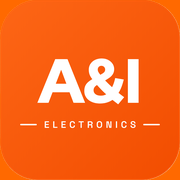
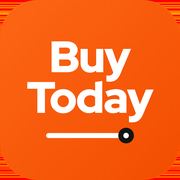
Put the Buy Today mark on every surface that carried the old one
The artwork arrived as an 1800px PNG on a white page with a drop shadow —
not as a tile. Dropped in as-is it would have been wrong everywhere it is
used: the header, footer and checkout all clip the mark with rounded-[22%],
so a white page background inside that clip renders as a white card, and
against the footer's navy it would have been a bright rectangle.

So the tile is cut out of it rather than the file being renamed. The orange
sits at 156px inset on all four sides, 1488x1488, with a 310px corner radius
— fitted to the artwork's own arc at six points rather than guessed, which
is what lets a generated mask land exactly on the drawn edge. The corners
become transparency, matching what the A&I file did.

One thing that is not obvious: the pixels the mask discards are repainted
with their row's own gradient colour before the alpha is applied. Left
white, that background averages into the rounded edge on every downscale
and each derived icon picks up a pale fringe. There is now no colour
boundary under the alpha for a resample to find.

Each size keeps the convention of the file it replaces. icon.png stays
transparent-cornered. apple-icon.png stays opaque and square, because iOS
masks the icon itself and hands a transparent corner back as black. The
Open Graph card keeps its navy, its 299x300 tile at y=110 and a 45px cap
height on the wordmark. Pelecard's logo stays a payment-page asset: its
stylesheet paints the mark in a 140x38 box with object-fit:contain, so a
[…]

diff --git a/src/app/globals.css b/src/app/globals.css
@@ -61,22 +61,26 @@
 
   /* Buy Today brand orange, sampled from the logo file itself
      (public/brand/logo.png) rather than eyeballed. The tile is a gradient
-     running #FC6414 -> #F35002; its core sits at #F7590B, which is this
-     value. The previous token was #FF6900 — 0.032 lighter and 4.4deg
+     running #F95C0D -> #F34F01; its core sits at #F55305, which is this
+     value. An earlier token was #FF6900 — 0.032 lighter and 4.4deg
      yellower, close enough to look intentional on its own and wrong the
-     moment the logo sits next to a CTA.
-
-     These numbers were sampled from the old A&I tile. The Buy Today mark is
-     the same family of orange, but the value has NOT been re-sampled against
-     it — do that when replacing the logo file, or the token drifts from the
-     mark it is supposed to match. --brand drives every CTA/link/
+     moment the logo sits next to a CTA. --brand drives every CTA/link/
      accent surface; --primary (below) carries the navy into the site's
      dark UI chrome (footer, default button/control states).
 
-     --brand-hover is the gradient's dark end, so hovering a button lands on
-     a colour the mark itself already contains. */
-  --brand: oklch(0.668 0.206 40);
-  --brand-hover: oklch(0.62 0.208 38.5);
+     Re-sampled when the mark changed from the A&I tile to Buy Today. The
+     shift was small — 0.010 darker, 0.9deg less yellow — but the point of
+     this token is that it is measured off the logo that ships and not off
+     one that has been replaced.
+
+     --brand-hover is built from the gradient's dark end rather than being
+     it. That end is oklch(0.650 0.211 38.3); the hover keeps its hue and
+     chroma and pulls lightness down a further 0.031. Taken straight, the
+     two would sit 0.008 apart, which on a button reads as no hover at all.
+     The previous pair carried the same 0.031 offset, so hovering still
+     lands on a colour the mark itself contains, only deeper. */
+  --brand: oklch(0.658 0.209 39.1);
+  --brand-hover: oklch(0.619 0.211 38.3);
   --brand-foreground: oklch(0.985 0 0);
   --price-highlight: oklch(0.96 0.15 105);
   --success: oklch(0.644 0.136 161.2);

diff --git a/src/app/layout.tsx b/src/app/layout.tsx
@@ -37,7 +37,16 @@ export const metadata: Metadata = {
   applicationName: SITE_NAME,
   // The icon set is picked up by convention from src/app: icon.png for the
   // browser tab, apple-icon.png for an iOS home-screen shortcut. Both are
-  // generated from public/brand/logo.png.
+  // generated from public/brand/logo.png, as is the Pelecard payment page's
+  // mark. apple-icon is deliberately opaque and square — iOS applies its own
+  // corner mask, and a transparent corner handed to it renders black.
+  //
+  // That master is 512px because images are served unoptimized (see
+  // next.config.ts), so whatever sits at /brand/logo.png is what a phone
+  // downloads to draw a 40px header logo — there is no resizing step to hide
+  // an oversized source behind. 512 is the largest thing derived from it
+  // (icon.png), so it is as small as it can be without losing a derivative.
+  // The 1800px artwork as delivered is in git history, added in d81d86b.
   openGraph: {
     type: "website",
     siteName: SITE_NAME,
